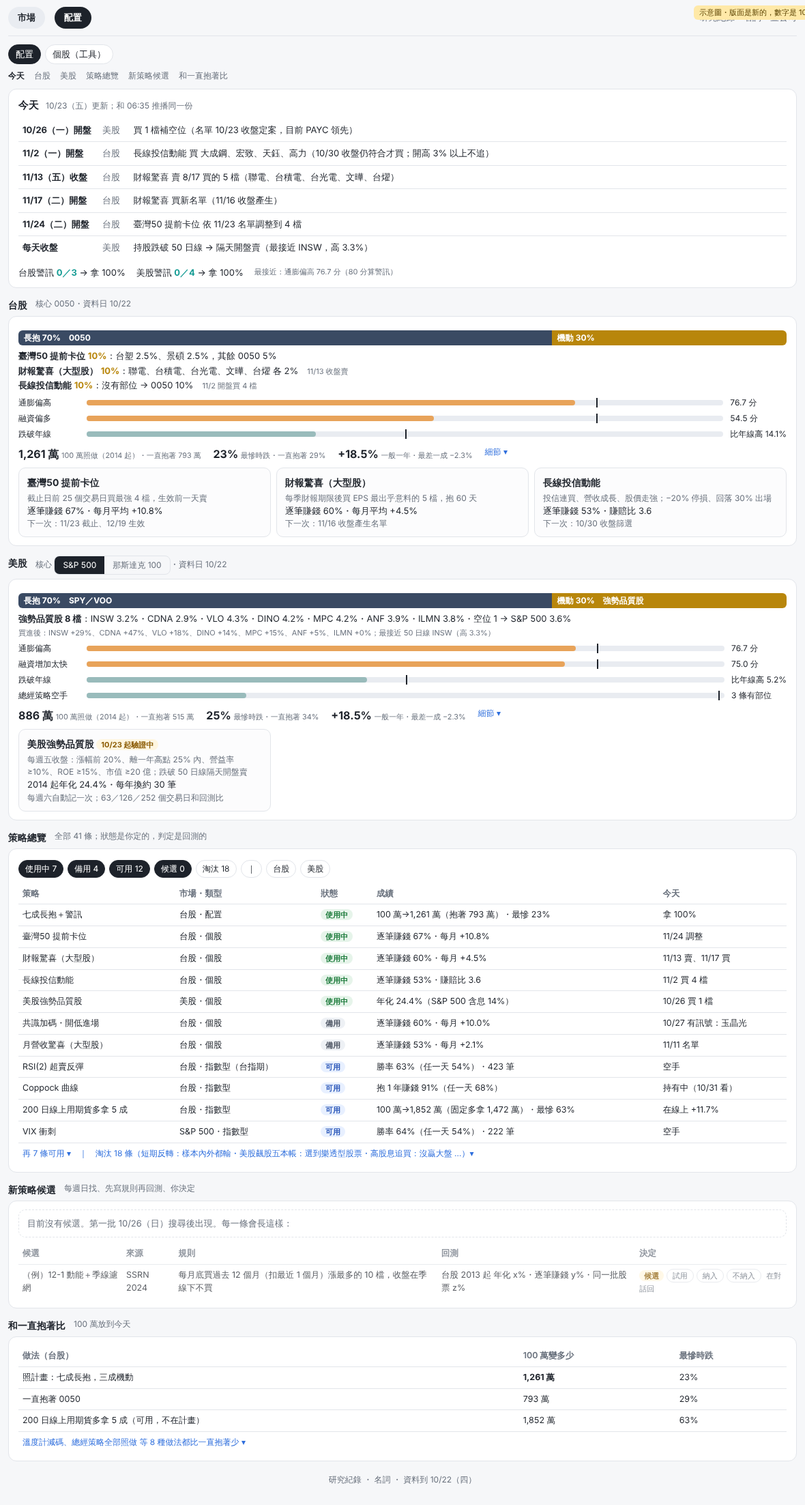
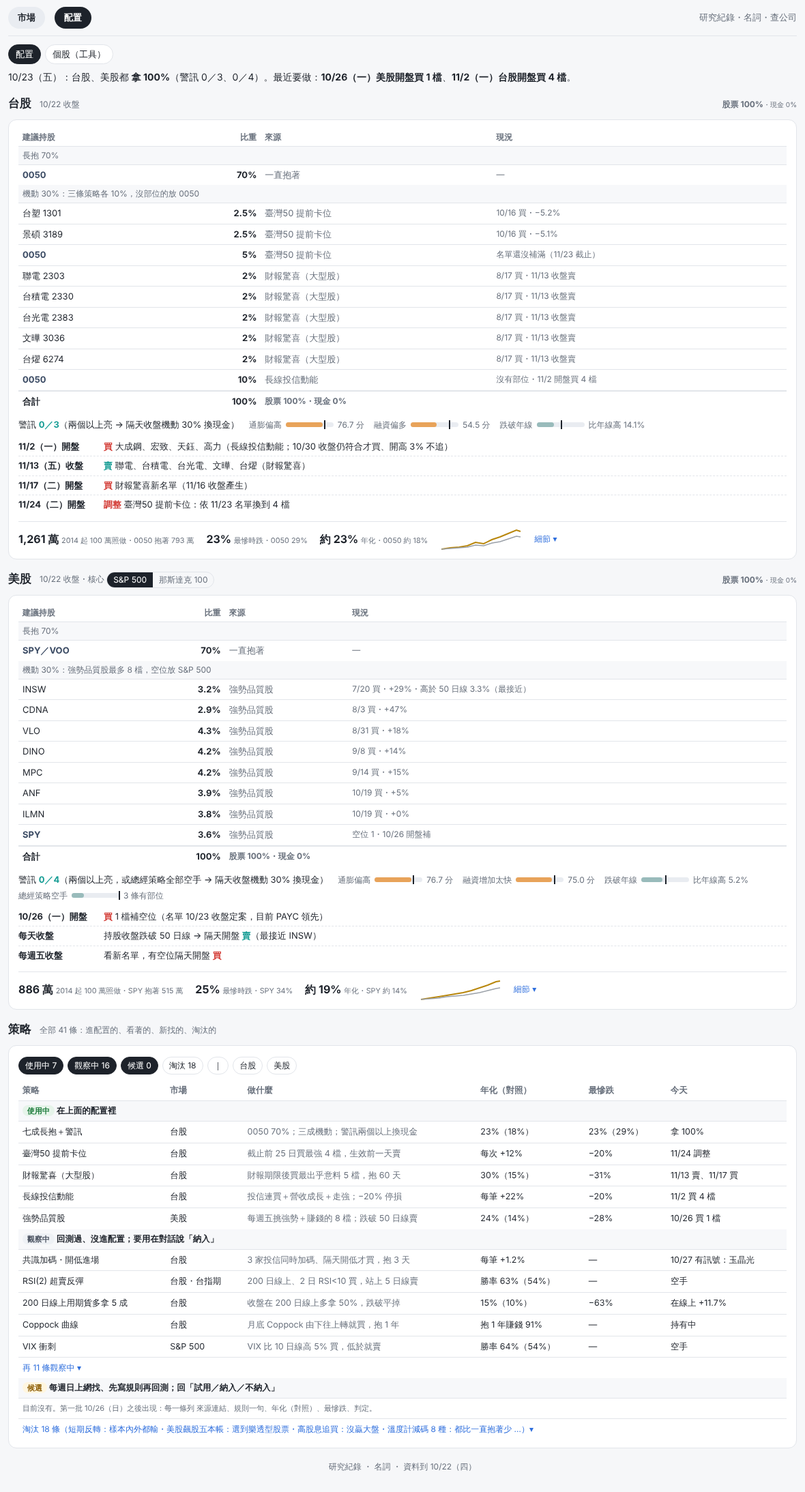
v5 規劃檔第二輪：市場頁面向在上、泡沫在下；配置頁改成「一張持股表」邏輯；示意圖第二版（含 HTML 原稿）
Claude-Session: https://claude.ai/code/session_01Bw8dmRtPnDTV9FRHXYRm2s

diff --git a/docs/mockups/ia_v5_mock.html b/docs/mockups/ia_v5_mock.html
@@ -1,0 +1,219 @@
+<!doctype html>
+<html lang="zh-Hant"><head><meta charset="utf-8"><meta name="viewport" content="width=device-width,initial-scale=1">
+<title>籌碼雷達 v5 示意圖（第二版）</title>
+<style>
+:root{--bg:#f6f7f9;--card:#fff;--ink:#1d222a;--mut:#69717d;--line:#e2e5ea;--red:#d33a34;--teal:#159c94;--gold:#b8860b;--blue:#2f6fdd;--warm:#fff1f0;--cool:#edf7f6}
+*{box-sizing:border-box}body{margin:0;background:var(--bg);color:var(--ink);font:14px/1.5 -apple-system,"Noto Sans TC","PingFang TC",system-ui,sans-serif}
+.page{max-width:1180px;margin:0 auto;padding:0 12px 28px}
+.top{display:flex;align-items:center;gap:14px;padding:10px 0;border-bottom:1px solid var(--line);font-size:13px}
+.top .tab{padding:6px 14px;border-radius:999px;background:#e9ecf1;font-weight:700}.top .tab.on{background:var(--ink);color:#fff}
+.top .r{margin-left:auto;color:var(--mut)}
+.mk{display:flex;gap:6px;flex-wrap:wrap;margin:12px 0 8px;font-size:13px}.mk span{padding:4px 10px;border-radius:999px;border:1px solid var(--line);background:#fff}.mk .on{background:var(--ink);color:#fff;border-color:var(--ink)}
+.card{background:var(--card);border:1px solid var(--line);border-radius:12px;padding:12px 14px;margin:10px 0;position:relative}
+.card h2{font-size:15px;margin:0 0 8px;display:flex;align-items:baseline;gap:10px;flex-wrap:wrap}.card h2 small{font-weight:400;color:var(--mut);font-size:12px}
+.hd{display:flex;flex-wrap:wrap;gap:6px 16px;align-items:baseline}.hd .px{font-size:22px;font-weight:800}.hd .d{color:var(--mut);font-size:12px}
+.chips{display:flex;flex-wrap:wrap;gap:6px;margin-top:8px}.chip{font-size:12px;padding:3px 9px;border-radius:999px;background:#eef1f5}
+.chip.hot{background:var(--warm);color:var(--red)}.chip.cold{background:var(--cool);color:var(--teal)}.chip.bub{background:#fff6e0;color:#8a5a00;font-weight:700}
+.therm{display:grid;grid-template-columns:3.2em 1fr auto;gap:6px 10px;align-items:center;margin-top:6px;font-size:13px}
+.therm .bar{height:8px;border-radius:4px;background:linear-gradient(90deg,var(--teal) 0 50%,var(--red) 50%);position:relative;opacity:.9}
+.therm .bar i{position:absolute;top:-4px;width:2px;height:16px;background:var(--ink)}.therm .bar b{position:absolute;top:-3px;width:14px;height:14px;border-radius:50%;background:#fff;border:3px solid var(--red);margin-left:-7px}
+.therm .rd{color:var(--mut)}.therm .rd b{color:var(--red)}
+.seg{display:inline-flex;border:1px solid var(--line);border-radius:8px;overflow:hidden;font-size:12px;margin:4px 0 8px}.seg span{padding:4px 12px}.seg .on{background:var(--ink);color:#fff}
+.two{display:grid;grid-template-columns:1fr;gap:10px}@media(min-width:900px){.two{grid-template-columns:1fr 1fr}}
+.list h4{margin:0 0 4px;font-size:13px}.list h4.up{color:var(--red)}.list h4.dn{color:var(--teal)}
+.row{display:grid;grid-template-columns:1fr auto;gap:2px 10px;padding:6px 0;border-top:1px solid var(--line);font-size:13px}.row:first-of-type{border-top:0}
+.row .n{font-weight:600}.row .s{color:var(--mut);font-size:12px;grid-column:1/3}.row .p{font-weight:700;white-space:nowrap}.row .p small{font-weight:400;color:var(--mut)}
+.tag{font-size:11px;padding:0 6px;border-radius:999px;background:#eef1f5;color:var(--mut);margin-left:6px;font-weight:400}.tag.ok{background:var(--cool);color:var(--teal)}
+.more{color:var(--blue);font-size:12px;margin-top:6px}
+.band{height:14px;border-radius:4px;margin:8px 0 4px;background:linear-gradient(90deg,#dfe3e8 0 18%,#f4d9b0 18% 24%,#dfe3e8 24% 46%,#f4d9b0 46% 50%,#e9b0a8 50% 53%,#dfe3e8 53% 70%,#f4d9b0 70% 78%,#dfe3e8 78% 91%,#f4d9b0 91% 100%)}
+.band+.ax{display:flex;justify-content:space-between;font-size:11px;color:var(--mut)}
+.cond{display:flex;flex-wrap:wrap;gap:6px;margin:6px 0}.cond span{font-size:12px;padding:3px 9px;border-radius:999px;border:1px solid var(--line)}.cond .y{border-color:var(--red);color:var(--red);font-weight:700}
+.rad{display:grid;grid-template-columns:1fr;gap:10px}@media(min-width:900px){.rad{grid-template-columns:260px 1fr}}
+.mv{display:grid;grid-template-columns:5.5em 7em 1fr;gap:4px 10px;font-size:13px;align-items:center}.mv .k{font-weight:600}.mv .v{color:var(--mut)}.mv .v b{color:var(--ink)}
+.srch{display:flex;gap:8px;align-items:center}.srch input{flex:1;padding:8px 10px;border:1px solid var(--line);border-radius:8px;font-size:14px}
+.foot{color:var(--mut);font-size:12px;text-align:center;margin-top:18px}
+/* 配置 */
+.lead{font-size:14px;margin:6px 0 2px}.lead b{color:var(--ink)}
+.sec{display:flex;align-items:baseline;gap:12px;margin:16px 0 6px}.sec b{font-size:17px}.sec span{color:var(--mut);font-size:12px}
+.lvl{margin-left:auto;font-size:13px;font-weight:700}.lvl small{font-weight:400;color:var(--mut)}
+.ht{width:100%;border-collapse:collapse;font-size:13px}.ht th{text-align:left;color:var(--mut);font-weight:600;font-size:12px;padding:4px 6px;border-bottom:1px solid var(--line)}
+.ht td{padding:5px 6px;border-top:1px solid var(--line);vertical-align:top}.ht tr.g td{background:#f7f8fa;color:var(--mut);font-size:12px;border-top:0;padding:4px 6px}
+.ht .w{text-align:right;font-weight:700;white-space:nowrap}.ht .src{color:var(--mut);white-space:nowrap}.ht .st{color:var(--mut);font-size:12px}.ht tr.tot td{font-weight:700;border-top:2px solid var(--line)}
+.ht .idx{color:#3a4a63;font-weight:700}
+.lamp{display:flex;flex-wrap:wrap;gap:4px 14px;margin-top:10px;font-size:13px;align-items:center}.lamp b.ok{color:var(--teal)}.lamp .w{display:inline-flex;align-items:center;gap:6px;color:var(--mut);font-size:12px}
+.lamp .wb{display:inline-block;width:70px;height:7px;background:#e9ecf1;border-radius:4px;position:relative;vertical-align:middle}.lamp .wb i{position:absolute;left:0;top:0;height:7px;border-radius:4px;background:#e8a35a}.lamp .wb u{position:absolute;left:80%;top:-3px;width:2px;height:13px;background:var(--ink)}
+.todo{margin-top:8px;font-size:13px}.todo div{display:grid;grid-template-columns:9em 1fr;gap:8px;padding:4px 0;border-top:1px dashed var(--line)}.todo div:first-child{border-top:0}.todo .dt{font-weight:700}.todo .act b{color:var(--red)}.todo .act b.s{color:var(--teal)}
+.perf{display:flex;flex-wrap:wrap;gap:8px 18px;align-items:center;margin-top:10px;font-size:13px;border-top:1px solid var(--line);padding-top:8px}.perf b{font-size:16px}.perf small{color:var(--mut)}
+.spark{width:120px;height:34px}
+.bt{width:100%;border-collapse:collapse;font-size:12.5px}.bt th{text-align:left;color:var(--mut);font-weight:600;padding:6px 6px;border-bottom:1px solid var(--line)}.bt td{padding:6px 6px;border-top:1px solid var(--line);vertical-align:top}.bt tr.g td{background:#f7f8fa;font-weight:700;border-top:0;padding:5px 6px}
+.bt .num{white-space:nowrap}.bt .what{color:var(--mut)}
+.pill{font-size:11px;padding:1px 7px;border-radius:999px;white-space:nowrap;font-weight:700}.pill.use{background:#e6f4ea;color:#1b7a3a}.pill.ob{background:#eef1f5;color:#4a5260}.pill.cd{background:#fff6e0;color:#8a5a00}.pill.x{background:#f3f3f3;color:#9aa0a8}
+.filt{display:flex;flex-wrap:wrap;gap:6px;margin:4px 0 8px;font-size:12px}.filt span{padding:3px 9px;border-radius:999px;border:1px solid var(--line)}.filt .on{background:var(--ink);color:#fff;border-color:var(--ink)}
+.note{font-size:11px;color:var(--mut)}
+.mock{display:none;position:fixed;left:8px;bottom:8px;background:#ffe9a8;color:#5a4300;font-size:11px;padding:2px 8px;border-radius:6px;z-index:9}
+.sw{display:inline-flex;border:1px solid var(--line);border-radius:999px;overflow:hidden;font-size:12px;vertical-align:middle}.sw span{padding:2px 9px}.sw .on{background:var(--ink);color:#fff}
+@media(max-width:640px){
+ .ht,.ht tbody{display:block}.ht tr{display:grid;grid-template-columns:1fr auto;border-top:1px solid var(--line);padding:5px 0}.ht th{display:none}.ht td{border:0;padding:0 4px}
+ .ht td.src,.ht td.st{grid-column:1/3;font-size:12px}.ht tr.g td,.ht tr.tot td:last-child{grid-column:1/3}.ht tr.g{background:#f7f8fa}
+ .bt th:nth-child(3),.bt td:nth-child(3),.bt th:nth-child(5),.bt td:nth-child(5){display:none}
+ .lamp .w{display:flex;width:100%}.todo div{grid-template-columns:1fr}.todo .dt{color:var(--mut)}
+}
+</style></head><body>
+<div class="mock">示意圖第二版・版面是新的，數字是 10/22 的（年化為估算）</div>
+
+<!-- ============ 市場 ============ -->
+<div class="page" id="market">
+  <div class="top"><span class="tab on">市場</span><span class="tab">配置</span><span class="r">研究紀錄・名詞・查公司</span></div>
+  <div class="mk"><span class="on">台股</span><span>S&amp;P 500</span><span>那斯達克</span><span>那斯達克 100</span><span>費半</span></div>
+
+  <div class="card">
+    <div class="hd"><span class="px">加權指數 46,041</span><span class="d">10/22（四）・離 60 日高點 −7.6%</span></div>
+    <div class="chips"><span class="chip hot">基本面 94 過熱</span><span class="chip hot">籌碼 83 過熱</span><span class="chip cold">全球資金 17 過冷</span><span class="chip">台灣資金 43</span><span class="chip cold">技術 31 偏冷</span></div>
+    <div class="rad" style="margin-top:10px">
+      <svg viewBox="0 0 220 200" width="100%" style="max-width:260px"><polygon points="110,20 196,82 163,182 57,182 24,82" fill="none" stroke="#e2e5ea"/><polygon points="110,60 153,91 136,141 84,141 67,91" fill="none" stroke="#e2e5ea"/><polygon points="110,24 190,86 120,136 80,160 55,84" fill="rgba(211,58,52,.18)" stroke="#d33a34" stroke-width="2"/><text x="110" y="12" font-size="11" text-anchor="middle">基本面 94</text><text x="200" y="80" font-size="11">籌碼 83</text><text x="166" y="196" font-size="11">技術 31</text><text x="20" y="196" font-size="11">台灣資金 43</text><text x="2" y="80" font-size="11">全球資金 17</text></svg>
+      <div class="mv">
+        <span class="k">這週</span><span class="v">上週 → 現在</span><span class="v">主要原因</span>
+        <span class="k">基本面</span><span class="v">94 → <b>94</b></span><span class="v">沒什麼變</span>
+        <span class="k">籌碼</span><span class="v">80 → <b>83</b> +3</span><span class="v">融資 20 日增減、外資台指期</span>
+        <span class="k">全球資金</span><span class="v">21 → <b>17</b> −4</span><span class="v">美債 10 年、聯準會</span>
+        <span class="k">台灣資金</span><span class="v">44 → <b>43</b></span><span class="v">沒什麼變</span>
+        <span class="k">技術</span><span class="v">38 → <b>31</b> −7</span><span class="v">RSI、20 日乖離 進入過冷</span>
+      </div>
+    </div>
+    <div class="note" style="margin-top:6px">點面向名稱看細項；雷達可以疊上近期波段高點、低點比。</div>
+  </div>
+
+  <div class="card">
+    <h2>今天的訊號 <small>點一列看之後怎麼走</small></h2>
+    <div class="therm">
+      <span>短線</span><div class="bar"><i style="left:50%"></i><b style="left:78%"></b></div><span class="rd">偏多 9・警示 2 → <b>偏多</b></span>
+      <span>中線</span><div class="bar"><i style="left:50%"></i><b style="left:72%"></b></div><span class="rd">偏多 10・警示 3 → <b>偏多</b></span>
+      <span>長線</span><div class="bar"><i style="left:50%"></i><b style="left:80%"></b></div><span class="rd">偏多 11・警示 2 → <b>偏多</b></span>
+    </div>
+    <div class="seg" style="margin-top:10px"><span class="on">短線 1 個月</span><span>中線 3 個月</span><span>長線 12 個月</span></div>
+    <div class="two">
+      <div class="list"><h4 class="up">偏多 9 類 <small style="font-weight:400;color:var(--mut)">之後 1 個月上漲的機率（任一天 58%）</small></h4>
+        <div class="row"><span class="n">自營商連續 10 天賣超<span class="tag">次數 6</span></span><span class="p">100% <small>+2.6%</small></span><span class="s">10/22 收盤進場・持有到 11/23</span></div>
+        <div class="row"><span class="n">融資 20 日增減・過熱結束</span><span class="p">72% <small>+2.3%</small></span><span class="s">10/27 收盤進場・持有到 11/24</span></div>
+        <div class="row"><span class="n">均線排列・過熱結束<span class="tag">震盪</span></span><span class="p">69% <small>+2.0%</small></span><span class="s">10/19 進場・持有到 11/18・同時成立 6 類</span></div>
+        <div class="more">還有 6 類 ▾</div>
+      </div>
+      <div class="list"><h4 class="dn">警示 2 類 <small style="font-weight:400;color:var(--mut)">之後 1 個月內回撤 8% 以上的機率（任一天 9%）</small></h4>
+        <div class="row"><span class="n">全球資金・過冷中<span class="tag ok">之後也成立</span></span><span class="p">27% <small>回撤中位 5%</small></span><span class="s">9/29 起成立・同時成立 28 個</span></div>
+        <div class="row"><span class="n">距近 120 日高點・進入過冷<span class="tag">震盪</span></span><span class="p">19%</span><span class="s">10/21 進場・持有到 11/20</span></div>
+      </div>
+    </div>
+  </div>
+
+  <div class="card">
+    <h2>全部指標 <small>78 個；點一個看現在、走勢、它的訊號與過去每一次</small></h2>
+    <div class="srch"><input placeholder="搜尋指標，例如 融資、RSI、VIX"></div>
+    <div class="chips"><span class="chip">基本面 8</span><span class="chip">籌碼 12</span><span class="chip">資金 18</span><span class="chip">技術 13</span><span class="chip">情境 9</span><span class="chip">泡沫 6</span><span class="chip">大跌後買點 10</span><span class="chip">指數型策略 13</span></div>
+    <div class="more">展開全部 78 個 ▾</div>
+  </div>
+
+  <div class="card" id="bub">
+    <h2>泡沫 <small>等級 2 漲勢過熱（0 沒有跡象 … 4 嚴重泡沫）</small></h2>
+    <div class="cond"><span class="y">價格爆發 ✓</span><span>兩年漲幅 ✗</span><span>偏離趨勢 ✗</span><span>估值 —</span><span>槓桿 ✗</span><span>未來獲利 ✗</span></div>
+    <div class="band"></div><div class="ax"><span>1997</span><span>2008</span><span>2021</span><span>2026</span></div>
+    <div class="mv" style="margin-top:8px"><span class="k">產業</span><span class="v"><b>電子零組件 3</b></span><span class="v">價格爆發、漲得比營收快</span><span></span><span class="v"><b>光電 2</b>・<b>半導體 2</b>・<b>PCB 族群 2</b></span><span class="v">一個價格條件</span></div>
+    <div class="more">全部 32 產業・17 族群 ▾</div>
+  </div>
+  <div class="foot">研究紀錄 ・ 名詞 ・ 資料到 10/22（四）</div>
+</div>
+
+<!-- ============ 配置 ============ -->
+<div class="page" id="cfg" hidden>
+  <div class="top"><span class="tab">市場</span><span class="tab on">配置</span><span class="r">研究紀錄・名詞・查公司</span></div>
+  <div class="mk"><span class="on">配置</span><span>個股（工具）</span></div>
+  <div class="lead">10/23（五）：台股、美股都 <b>拿 100%</b>（警訊 0／3、0／4）。最近要做：<b>10/26（一）美股開盤買 1 檔</b>、<b>11/2（一）台股開盤買 4 檔</b>。</div>
+
+  <div class="sec"><b>台股</b><span>10/22 收盤</span><span class="lvl">股票 100%<small>・現金 0%</small></span></div>
+  <div class="card">
+    <table class="ht">
+      <tr><th>建議持股</th><th style="text-align:right">比重</th><th>來源</th><th>現況</th></tr>
+      <tr class="g"><td colspan="4">長抱 70%</td></tr>
+      <tr><td class="idx">0050</td><td class="w">70%</td><td class="src">一直抱著</td><td class="st">—</td></tr>
+      <tr class="g"><td colspan="4">機動 30%：三條策略各 10%，沒部位的放 0050</td></tr>
+      <tr><td>台塑 1301</td><td class="w">2.5%</td><td class="src">臺灣50 提前卡位</td><td class="st">10/16 買・−5.2%</td></tr>
+      <tr><td>景碩 3189</td><td class="w">2.5%</td><td class="src">臺灣50 提前卡位</td><td class="st">10/16 買・−5.1%</td></tr>
+      <tr><td class="idx">0050</td><td class="w">5%</td><td class="src">臺灣50 提前卡位</td><td class="st">名單還沒補滿（11/23 截止）</td></tr>
+      <tr><td>聯電 2303</td><td class="w">2%</td><td class="src">財報驚喜（大型股）</td><td class="st">8/17 買・11/13 收盤賣</td></tr>
+      <tr><td>台積電 2330</td><td class="w">2%</td><td class="src">財報驚喜（大型股）</td><td class="st">8/17 買・11/13 收盤賣</td></tr>
+      <tr><td>台光電 2383</td><td class="w">2%</td><td class="src">財報驚喜（大型股）</td><td class="st">8/17 買・11/13 收盤賣</td></tr>
+      <tr><td>文曄 3036</td><td class="w">2%</td><td class="src">財報驚喜（大型股）</td><td class="st">8/17 買・11/13 收盤賣</td></tr>
+      <tr><td>台燿 6274</td><td class="w">2%</td><td class="src">財報驚喜（大型股）</td><td class="st">8/17 買・11/13 收盤賣</td></tr>
+      <tr><td class="idx">0050</td><td class="w">10%</td><td class="src">長線投信動能</td><td class="st">沒有部位・11/2 開盤買 4 檔</td></tr>
+      <tr class="tot"><td>合計</td><td class="w">100%</td><td colspan="2" class="st">股票 100%・現金 0%</td></tr>
+    </table>
+    <div class="lamp"><span>警訊 <b class="ok">0／3</b>（兩個以上亮 → 隔天收盤機動 30% 換現金）</span>
+      <span class="w">通膨偏高 <i class="wb"><i style="width:77%"></i><u></u></i> 76.7 分</span>
+      <span class="w">融資偏多 <i class="wb"><i style="width:55%"></i><u></u></i> 54.5 分</span>
+      <span class="w">跌破年線 <i class="wb"><i style="width:36%;background:#9bb"></i><u style="left:50%"></u></i> 比年線高 14.1%</span></div>
+    <div class="todo">
+      <div><span class="dt">11/2（一）開盤</span><span class="act"><b>買</b> 大成鋼、宏致、天鈺、高力（長線投信動能；10/30 收盤仍符合才買、開高 3% 不追）</span></div>
+      <div><span class="dt">11/13（五）收盤</span><span class="act"><b class="s">賣</b> 聯電、台積電、台光電、文曄、台燿（財報驚喜）</span></div>
+      <div><span class="dt">11/17（二）開盤</span><span class="act"><b>買</b> 財報驚喜新名單（11/16 收盤產生）</span></div>
+      <div><span class="dt">11/24（二）開盤</span><span class="act"><b>調整</b> 臺灣50 提前卡位：依 11/23 名單換到 4 檔</span></div>
+    </div>
+    <div class="perf"><span><b>1,261 萬</b> <small>2014 起 100 萬照做・0050 抱著 793 萬</small></span><span><b>23%</b> <small>最慘時跌・0050 29%</small></span><span><b>約 23%</b> <small>年化・0050 約 18%</small></span>
+      <svg class="spark" viewBox="0 0 120 34"><polyline points="2,32 15,30 28,29 40,27 52,22 64,24 76,18 88,14 100,9 112,4 118,6" fill="none" stroke="#b8860b" stroke-width="2"/><polyline points="2,32 15,31 28,30 40,29 52,26 64,27 76,23 88,21 100,17 112,13 118,14" fill="none" stroke="#9aa0a8" stroke-width="1.5"/></svg><span class="more" style="margin:0">細節 ▾</span></div>
+  </div>
+
+  <div class="sec"><b>美股</b><span>10/22 收盤・核心 <span class="sw"><span class="on">S&amp;P 500</span><span>那斯達克 100</span></span></span><span class="lvl">股票 100%<small>・現金 0%</small></span></div>
+  <div class="card">
+    <table class="ht">
+      <tr><th>建議持股</th><th style="text-align:right">比重</th><th>來源</th><th>現況</th></tr>
+      <tr class="g"><td colspan="4">長抱 70%</td></tr>
+      <tr><td class="idx">SPY／VOO</td><td class="w">70%</td><td class="src">一直抱著</td><td class="st">—</td></tr>
+      <tr class="g"><td colspan="4">機動 30%：強勢品質股最多 8 檔，空位放 S&amp;P 500</td></tr>
+      <tr><td>INSW</td><td class="w">3.2%</td><td class="src">強勢品質股</td><td class="st">7/20 買・+29%・高於 50 日線 3.3%（最接近）</td></tr>
+      <tr><td>CDNA</td><td class="w">2.9%</td><td class="src">強勢品質股</td><td class="st">8/3 買・+47%</td></tr>
+      <tr><td>VLO</td><td class="w">4.3%</td><td class="src">強勢品質股</td><td class="st">8/31 買・+18%</td></tr>
+      <tr><td>DINO</td><td class="w">4.2%</td><td class="src">強勢品質股</td><td class="st">9/8 買・+14%</td></tr>
+      <tr><td>MPC</td><td class="w">4.2%</td><td class="src">強勢品質股</td><td class="st">9/14 買・+15%</td></tr>
+      <tr><td>ANF</td><td class="w">3.9%</td><td class="src">強勢品質股</td><td class="st">10/19 買・+5%</td></tr>
+      <tr><td>ILMN</td><td class="w">3.8%</td><td class="src">強勢品質股</td><td class="st">10/19 買・+0%</td></tr>
+      <tr><td class="idx">SPY</td><td class="w">3.6%</td><td class="src">強勢品質股</td><td class="st">空位 1・10/26 開盤補</td></tr>
+      <tr class="tot"><td>合計</td><td class="w">100%</td><td colspan="2" class="st">股票 100%・現金 0%</td></tr>
+    </table>
+    <div class="lamp"><span>警訊 <b class="ok">0／4</b>（兩個以上亮，或總經策略全部空手 → 隔天收盤機動 30% 換現金）</span>
+      <span class="w">通膨偏高 <i class="wb"><i style="width:77%"></i><u></u></i> 76.7 分</span>
+      <span class="w">融資增加太快 <i class="wb"><i style="width:75%"></i><u></u></i> 75.0 分</span>
+      <span class="w">跌破年線 <i class="wb"><i style="width:44%;background:#9bb"></i><u style="left:50%"></u></i> 比年線高 5.2%</span>
+      <span class="w">總經策略空手 <i class="wb"><i style="width:25%;background:#9bb"></i><u style="left:99%"></u></i> 3 條有部位</span></div>
+    <div class="todo">
+      <div><span class="dt">10/26（一）開盤</span><span class="act"><b>買</b> 1 檔補空位（名單 10/23 收盤定案，目前 PAYC 領先）</span></div>
+      <div><span class="dt">每天收盤</span><span class="act">持股收盤跌破 50 日線 → 隔天開盤 <b class="s">賣</b>（最接近 INSW）</span></div>
+      <div><span class="dt">每週五收盤</span><span class="act">看新名單，有空位隔天開盤 <b>買</b></span></div>
+    </div>
+    <div class="perf"><span><b>886 萬</b> <small>2014 起 100 萬照做・SPY 抱著 515 萬</small></span><span><b>25%</b> <small>最慘時跌・SPY 34%</small></span><span><b>約 19%</b> <small>年化・SPY 約 14%</small></span>
+      <svg class="spark" viewBox="0 0 120 34"><polyline points="2,32 15,30 28,28 40,26 52,24 64,22 76,19 88,15 100,11 112,6 118,5" fill="none" stroke="#b8860b" stroke-width="2"/><polyline points="2,32 15,31 28,30 40,28 52,27 64,26 76,24 88,22 100,19 112,16 118,15" fill="none" stroke="#9aa0a8" stroke-width="1.5"/></svg><span class="more" style="margin:0">細節 ▾</span></div>
+  </div>
+
+  <div class="sec"><b>策略</b><span>全部 41 條：進配置的、看著的、新找的、淘汰的</span></div>
+  <div class="card">
+    <div class="filt"><span class="on">使用中 7</span><span class="on">觀察中 16</span><span class="on">候選 0</span><span>淘汰 18</span><span>｜</span><span>台股</span><span>美股</span></div>
+    <table class="bt">
+      <tr><th>策略</th><th>市場</th><th>做什麼</th><th>年化（對照）</th><th>最慘跌</th><th>今天</th></tr>
+      <tr class="g"><td colspan="6"><span class="pill use">使用中</span> 在上面的配置裡</td></tr>
+      <tr><td>七成長抱＋警訊</td><td>台股</td><td class="what">0050 70%；三成機動；警訊兩個以上換現金</td><td class="num">23%（18%）</td><td class="num">23%（29%）</td><td>拿 100%</td></tr>
+      <tr><td>臺灣50 提前卡位</td><td>台股</td><td class="what">截止前 25 日買最強 4 檔，生效前一天賣</td><td class="num">每次 +12%</td><td class="num">−20%</td><td>11/24 調整</td></tr>
+      <tr><td>財報驚喜（大型股）</td><td>台股</td><td class="what">財報期限後買最出乎意料 5 檔，抱 60 天</td><td class="num">30%（15%）</td><td class="num">−31%</td><td>11/13 賣、11/17 買</td></tr>
+      <tr><td>長線投信動能</td><td>台股</td><td class="what">投信連買＋營收成長＋走強；−20% 停損</td><td class="num">每筆 +22%</td><td class="num">−20%</td><td>11/2 買 4 檔</td></tr>
+      <tr><td>強勢品質股</td><td>美股</td><td class="what">每週五挑強勢＋賺錢的 8 檔；跌破 50 日線賣</td><td class="num">24%（14%）</td><td class="num">−28%</td><td>10/26 買 1 檔</td></tr>
+      <tr class="g"><td colspan="6"><span class="pill ob">觀察中</span> 回測過、沒進配置；要用在對話說「納入」</td></tr>
+      <tr><td>共識加碼・開低進場</td><td>台股</td><td class="what">3 家投信同時加碼、隔天開低才買，抱 3 天</td><td class="num">每筆 +1.2%</td><td class="num">—</td><td>10/27 有訊號：玉晶光</td></tr>
+      <tr><td>RSI(2) 超賣反彈</td><td>台股・台指期</td><td class="what">200 日線上、2 日 RSI&lt;10 買，站上 5 日線賣</td><td class="num">勝率 63%（54%）</td><td class="num">—</td><td>空手</td></tr>
+      <tr><td>200 日線上用期貨多拿 5 成</td><td>台股</td><td class="what">收盤在 200 日線上多拿 50%，跌破平掉</td><td class="num">15%（10%）</td><td class="num">−63%</td><td>在線上 +11.7%</td></tr>
+      <tr><td>Coppock 曲線</td><td>台股</td><td class="what">月底 Coppock 由下往上轉就買，抱 1 年</td><td class="num">抱 1 年賺錢 91%</td><td class="num">—</td><td>持有中</td></tr>
+      <tr><td>VIX 衝刺</td><td>S&amp;P 500</td><td class="what">VIX 比 10 日線高 5% 買，低於就賣</td><td class="num">勝率 64%（54%）</td><td class="num">—</td><td>空手</td></tr>
+      <tr><td colspan="6" class="more">再 11 條觀察中 ▾</td></tr>
+      <tr class="g"><td colspan="6"><span class="pill cd">候選</span> 每週日上網找、先寫規則再回測；回「試用／納入／不納入」</td></tr>
+      <tr><td colspan="6" class="note">目前沒有。第一批 10/26（日）之後出現：每一條列 來源連結、規則一句、年化（對照）、最慘跌、判定。</td></tr>
+      <tr><td colspan="6" class="more">淘汰 18 條（短期反轉：樣本內外都輸・美股飆股五本帳：選到樂透型股票・高股息追買：沒贏大盤・溫度計減碼 8 種：都比一直抱著少 …）▾</td></tr>
+    </table>
+  </div>
+  <div class="foot">研究紀錄 ・ 名詞 ・ 資料到 10/22（四）</div>
+</div>
+</body></html>

diff --git a/docs/lab_ia_v5_plan.md b/docs/lab_ia_v5_plan.md
@@ -394,6 +394,48 @@
 - **個股、籌碼、指數整個拿掉**：籌碼（主動 ETF 買賣）與指數（臺灣50 換股名單）是三條台股策略的來源，查證要用；收成一個工具分頁，不在主流程。
 - **市場頁合併成一檔五個市場**：Q2 已選兩檔跨檔切換；面板體積第 6 段處理。
 
+## 15. 第二輪修正（2026-10-23，使用者看過示意圖：「面向最上面 泡沫最下面」「配置的頁面邏輯很怪看不懂 重新設計」）
+
+**以下取代第 3、4、5 節與第 14 節對應的部分**；示意圖（第二版）同 `docs/mockups/ia_v5_*.png`。
+
+### 15.1 市場頁順序
+
+面向（雷達＋五個面向分數＋這週變化；頁首的指數、日期、離 60 日高點併在這一塊的標題列）→ 今天的訊號（溫度計三支＋偏多、警示清單）→ 全部指標（搜尋，預設收起）→ 泡沫（最下面）。
+
+### 15.2 配置頁為什麼看不懂（第一版的問題）
+
+- 把計畫的「結構」一層一層攤開（七成／三成 → 三條策略各 10% → 警訊 → 好處 → 策略小卡），讀者要自己拼出「所以我現在該持有什麼」。
+- 「今天」表、各市場卡的持股、策略小卡的「下一次」三處講同一批動作。
+- 策略總覽的成績欄每一條單位不同（每月、逐筆、年化、勝率、100 萬），「備用」「可用」兩種狀態分不清要不要做。
+- 好處那一排數字（1,261 萬、23%、+18.5%）沒有說它是什麼。
+
+### 15.3 配置頁第二版：照「一張持股表」的邏輯
+
+每個市場一張卡，由上而下四件事，順序就是讀者的問題順序：
+
+1. **建議持股表**（＝「現在該持有什麼」）：標的｜比重｜來源｜現況。長抱 70% 一列（0050／SPY）；機動 30% 每檔一列、來源寫是哪條策略、沒部位的那一份寫「0050 10%・11/2 買 4 檔」；合計 100%。卡的標題列右邊就是水位：「股票 100%・現金 0%」。
+2. **警訊一行**：0／3（兩個以上亮 → 隔天收盤機動 30% 換現金）＋三條小長條與分數。
+3. **接下來**：日期｜買／賣／調整｜哪幾檔（哪條策略）。
+4. **成績一行**：100 萬變多少（對一直抱著）、最慘時跌（對一直抱著）、年化（對一直抱著）＋ 1 元變多少小圖；「細節」收起。
+
+頁首一句：今天台股、美股各拿多少、最近要做的兩件事——和 06:35 推播同一份。美股卡的核心（S&P 500／那斯達克 100）在卡的標題列切換；三成一樣。
+
+### 15.4 策略區（取代第 5 節）
+
+- 狀態簡化成四種：**使用中**（在上面的配置裡）／**觀察中**（回測過、沒進配置：原本的「備用」＋「可用」）／**候選**（新找的）／**淘汰**。「觀察中」的要用，在對話說「納入 X」，和候選同一個流程。
+- 一張表：策略｜市場｜做什麼（一句）｜年化（對照）｜最慘跌｜今天。成績統一寫年化與最慘跌（配置、個股、指數型都算得出全部資金照做的年化；交易型另寫每筆或勝率）。
+- 候選是這張表的一個分組，不另開區塊；「和一直抱著比」併進各市場的成績一行；「好處與風險」的往後 12 個月分布收進「細節」。
+- 第 6 節的候選流程不變。
+
+### 15.5 兩頁的最終結構
+
+```
+市場：面向 → 今天的訊號 → 全部指標 → 泡沫
+配置：今天一句 → 台股卡（持股表・警訊・接下來・成績）→ 美股卡（同）→ 策略（使用中／觀察中／候選／淘汰）
+      分頁「個股」＝個股表與卡、籌碼、指數
+研究紀錄（頁尾進）：全部驗證與方法
+```
+
 ## 13. 要你確認的（Q1～Q4 用問答，其餘在本檔）
 
 ### Q1 配置頁的分頁
